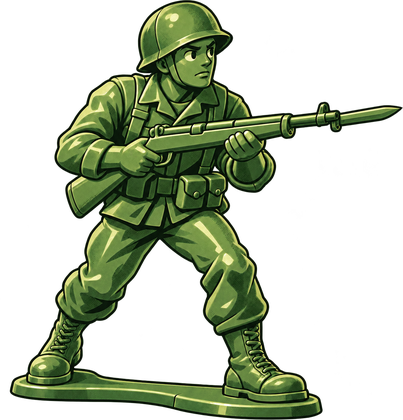
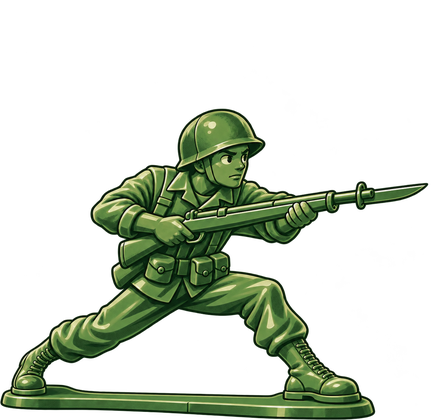
Point Man release redos; plate centring and tone matching in the prep tool
- The four release frames (Q_2, W_2, E_2, R_2) are replaced with the redos.
  At 100 px tall their outline overlap with the idle figure drops from
  0.69/0.90/0.50/0.75 to 0.48/0.37/0.17/0.49, so each reads at play size.
- Plates are now centred from their underside span. The redos come on plates
  11-25% wider than the master's, which threw off the old band-average centre
  by up to 20 world units; the underside span is unaffected by boots and legs.
- Each frame's green is matched to the master's brightness and saturation
  before cutting. The redos were 5-14% brighter; all frames are now within 1%.

Claude-Session: https://claude.ai/code/session_01JNizS83aSiDpH4SvKU54ND

diff --git a/tools/prep-anim.py b/tools/prep-anim.py
@@ -3,6 +3,7 @@
 
 Usage: python3 tools/prep-anim.py <hero key> <master png> <frames dir>
   <frames dir> holds the delivered 1254-px frames named <key>_<slot>_<n>.png.
+Each frame's green is first matched to the master's brightness and saturation.
 Writes assets/heroes/anim/<key>_<slot>_<n>.png and, when the hero has a hand-made tan figure, the tan version of each
 frame under assets/heroes/tan/anim/. Prints one line per frame.
 
@@ -19,17 +20,22 @@ from PIL import Image
 
 ROOT = os.path.dirname(os.path.dirname(os.path.abspath(__file__)))
 TH = 8          # alpha threshold the idle crop was cut with
-BAND = 120      # rows above the baseline treated as the base plate
 
 
-def plate(im):
-    """(centre x of the plate's solid pixels, baseline row) in this image's pixels."""
-    a = np.asarray(im.getchannel('A'))
-    rows = np.where((a > 128).sum(1) >= 16)[0]
-    base = int(rows.max())
-    band = a[max(0, base - BAND):base + 1] > 128
-    _, xs = np.nonzero(band)
-    return float(xs.mean()), base
+def plate(im, reach=90):
+    """(centre x of the base plate, baseline row) in this image's pixels.
+    The plate is a tilted slab seen from above and boots sit on it, so it is measured from its underside: the columns whose
+    lowest solid pixel lies within `reach` px of the baseline give the plate's span; its centre is the span's midpoint.
+    Generated poses may come with a wider or narrower plate than the master; centring the spans keeps the figure from
+    jumping sideways even then."""
+    a = np.asarray(im.getchannel('A')) > 128
+    base = int(np.where(a.sum(1) >= 16)[0].max())
+    H, W = a.shape
+    has = a.any(0)
+    low = np.full(W, -1)
+    low[has] = H - 1 - np.argmax(a[::-1, has], axis=0)
+    cols = np.where(low >= base - reach)[0]
+    return (cols.min() + cols.max()) / 2.0, base
 
 
 def tan_lut(key):
@@ -75,6 +81,28 @@ def apply_lut(im, lut):
     return Image.fromarray(np.clip(o, 0, 255).astype(np.uint8), 'RGBA')
 
 
+def match_tone(fr, master):
+    """Match a frame's green to the master's: brightness by rank (each pixel keeps its hue), then overall saturation.
+    Generated poses drift lighter or more saturated from one sitting to the next; this pulls them back."""
+    lum = lambda x: x[..., 0] * 0.299 + x[..., 1] * 0.587 + x[..., 2] * 0.114
+    a = np.asarray(fr.convert('RGBA')).astype(np.float64)
+    m = np.asarray(master.convert('RGBA')).astype(np.float64)
+    fa, ma = a[..., 3] > 200, m[..., 3] > 200
+    q = np.linspace(0, 1, 256)
+    lf, lm = lum(a), lum(m)
+    f_at, m_at = np.quantile(lf[fa], q), np.quantile(lm[ma], q)
+    target = np.interp(lf, f_at, m_at)
+    k = np.where(lf > 1, target / np.maximum(lf, 1), 1.0)[..., None]
+    rgb = a[..., :3] * k
+    sat = lambda x, msk: np.mean((x[..., :3].max(-1) - x[..., :3].min(-1))[msk] / np.maximum(x[..., :3].max(-1)[msk], 1))
+    sf, sm = sat(np.dstack([rgb, a[..., 3:]]), fa), sat(m, ma)
+    if sf > 0:
+        grey = lum(rgb)[..., None]
+        rgb = grey + (rgb - grey) * (sm / sf)
+    a[..., :3] = np.clip(rgb, 0, 255)
+    return Image.fromarray(a.astype(np.uint8), 'RGBA')
+
+
 def box(im, th=TH):
     a = np.asarray(im.getchannel('A'))
     ys, xs = np.nonzero(a > th)
@@ -98,7 +126,7 @@ def main(key, master_path, frames_dir):
     if not names:
         sys.exit('no frames named %s_<slot>_<n>.png in %s' % (key, frames_dir))
     for name in names:
-        fr = Image.open(os.path.join(frames_dir, name)).convert('RGBA')
+        fr = match_tone(Image.open(os.path.join(frames_dir, name)).convert('RGBA'), master)
         fcx, fbase = plate(fr)
         dx, dy = mcx - fcx, mbase - fbase
         # shift the frame so its plate lands on the master's plate
